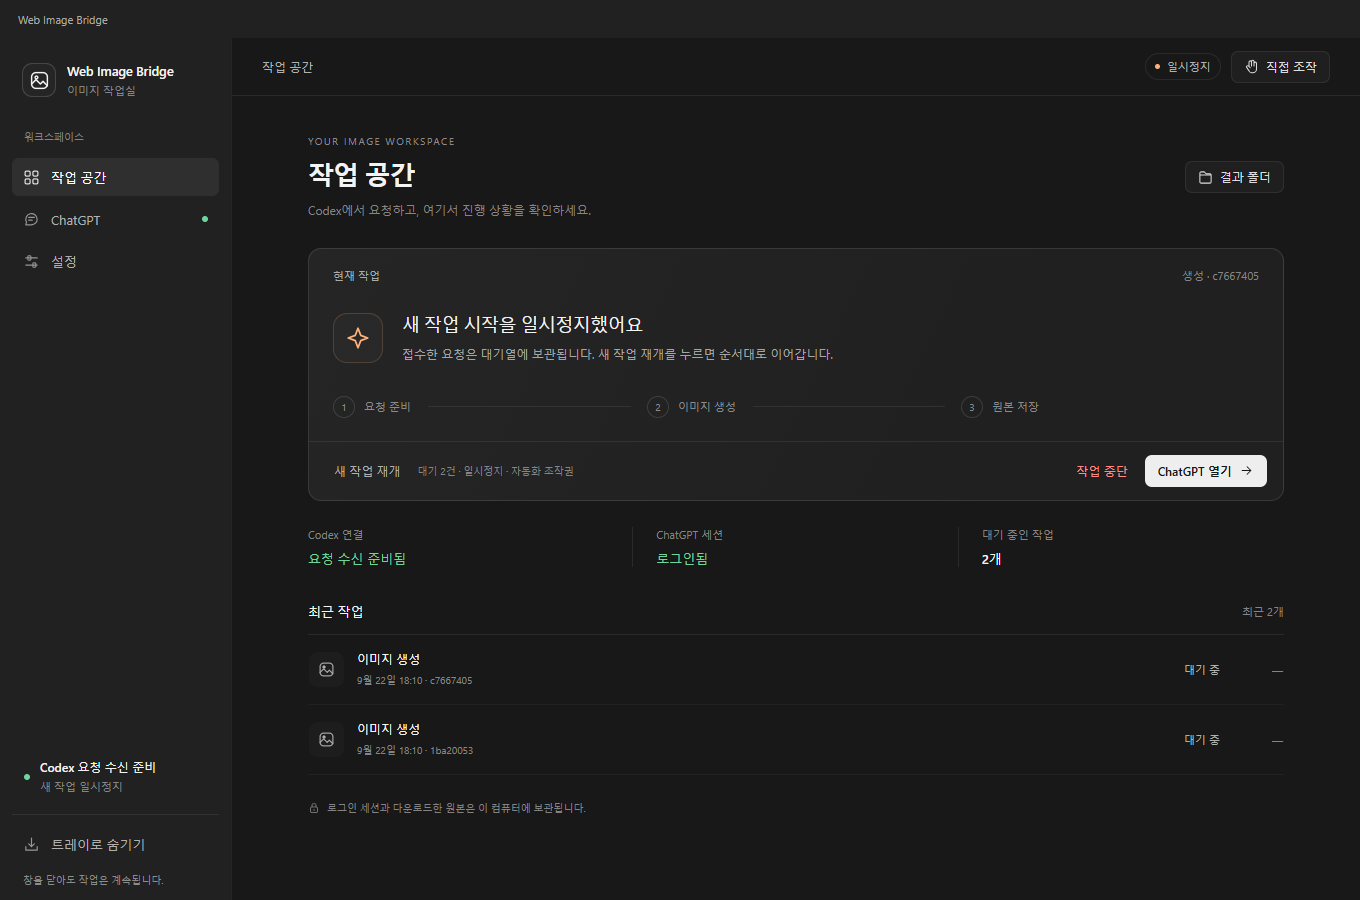
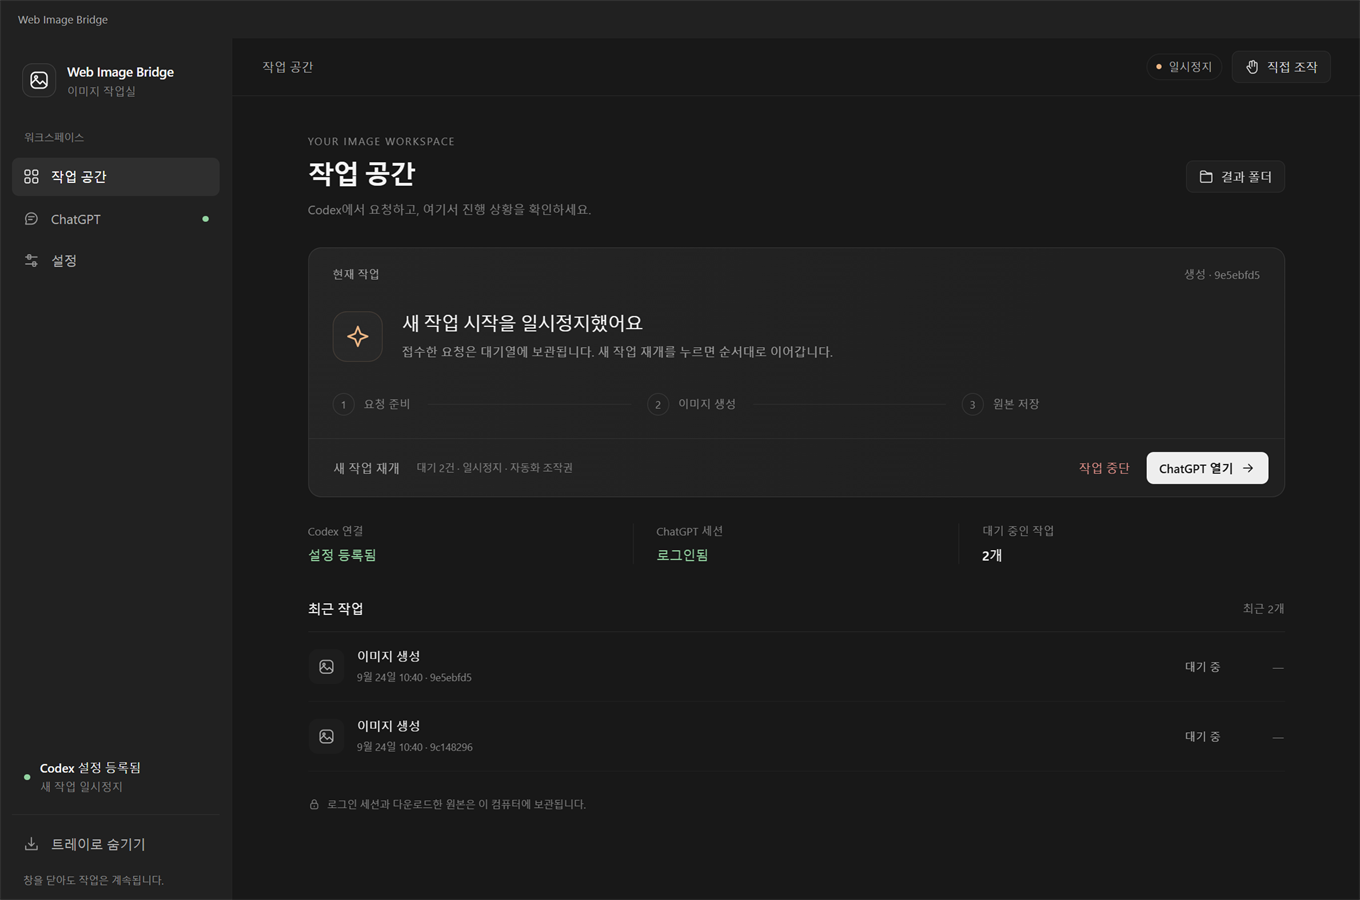
docs: refresh the workspace and queue screenshots
Both were still the v0.1.0 captures with the old connection labels. The
operations test now writes README captures of the current workspace in a
registered Codex state, since the fixture itself never registers one.

diff --git a/tests/electron/operations-self-test.ts b/tests/electron/operations-self-test.ts
@@ -35,6 +35,18 @@ export async function operationsSelfTest(
     );
     await writeFile(path.join(profile, name), (await window.webContents.capturePage()).toPNG());
   };
+  // Public README screenshots show a registered Codex connection; the fixture never registers one.
+  const readmeCapture = async (name: string) => {
+    await until(
+      () =>
+        ui.evaluate<boolean>(`!refreshing && (refreshing = true, render({...latest, setup_guide: false,
+          setup: latest.setup && {...latest.setup, registered: true, checked: true}}), true)`),
+      Boolean,
+      3000,
+    );
+    await capture(name);
+    await ui.evaluate(`refreshing = false; update()`);
+  };
   await until(
     () => ui.evaluate<boolean>(`!document.querySelector('#operations').hidden`),
     Boolean,
@@ -142,6 +154,7 @@ export async function operationsSelfTest(
   window.showInactive();
   await navigate('workspace');
   pass('dashboard-hidden-window-keeps-web-page-rendered');
+  await readmeCapture('readme-workspace.png');
   await ui.click('[data-action="pause-queue"]');
   await until(async () => service.engine.paused, Boolean, 3000);
   for (let i = 0; i < 2; i++)
@@ -182,6 +195,7 @@ export async function operationsSelfTest(
   );
   assert.equal(await ui.evaluate(`document.querySelectorAll('.job-row').length`), 2);
   await capture('queue.png');
+  await readmeCapture('readme-queue.png');
   pass('dashboard-history-reflects-real-persisted-jobs');
   await ui.click('[data-action="takeover"]');
   await until(

diff --git a/README.md b/README.md
@@ -23,7 +23,7 @@
 
 <p align="center"><a href="README.en.md">English</a> · <strong>한국어</strong></p>
 
-![Web Image Bridge 작업 공간 — 요청 수신 상태, ChatGPT 연결, 생성 단계와 최근 작업을 보여 주는 데스크톱 화면](assets/readme/workspace.png)
+![Web Image Bridge 작업 공간 — Codex 연결 상태, ChatGPT 세션, 생성 단계와 최근 작업을 보여 주는 데스크톱 화면](assets/readme/workspace.png)
 
 Codex에 이미지 생성·편집을 요청하면 앱이 사용자의 ChatGPT 웹 세션에서 실행하고, 다운로드한 **원본 파일**을 프로젝트 폴더에 저장합니다.
 별도 이미지 API 키는 필요 없습니다. 프롬프트 작성과 결과 검수는 Codex가, 브라우저 조작·다운로드·복구는 앱이 맡습니다.

diff --git a/README.en.md b/README.en.md
@@ -23,7 +23,7 @@
 
 <p align="center"><strong>English</strong> · <a href="README.md">한국어</a></p>
 
-![Web Image Bridge workspace — desktop screen showing request status, the ChatGPT connection, generation steps and recent jobs](assets/readme/workspace.png)
+![Web Image Bridge workspace — desktop screen showing the Codex connection, the ChatGPT session, generation steps and recent jobs](assets/readme/workspace.png)
 
 Ask Codex to generate or edit an image. The app runs the request in your own ChatGPT web session, downloads the **original file**, and saves it to your project folder.
 No separate image API key is needed. Codex writes the prompt and reviews the result; the app handles the browser, downloads and recovery.
